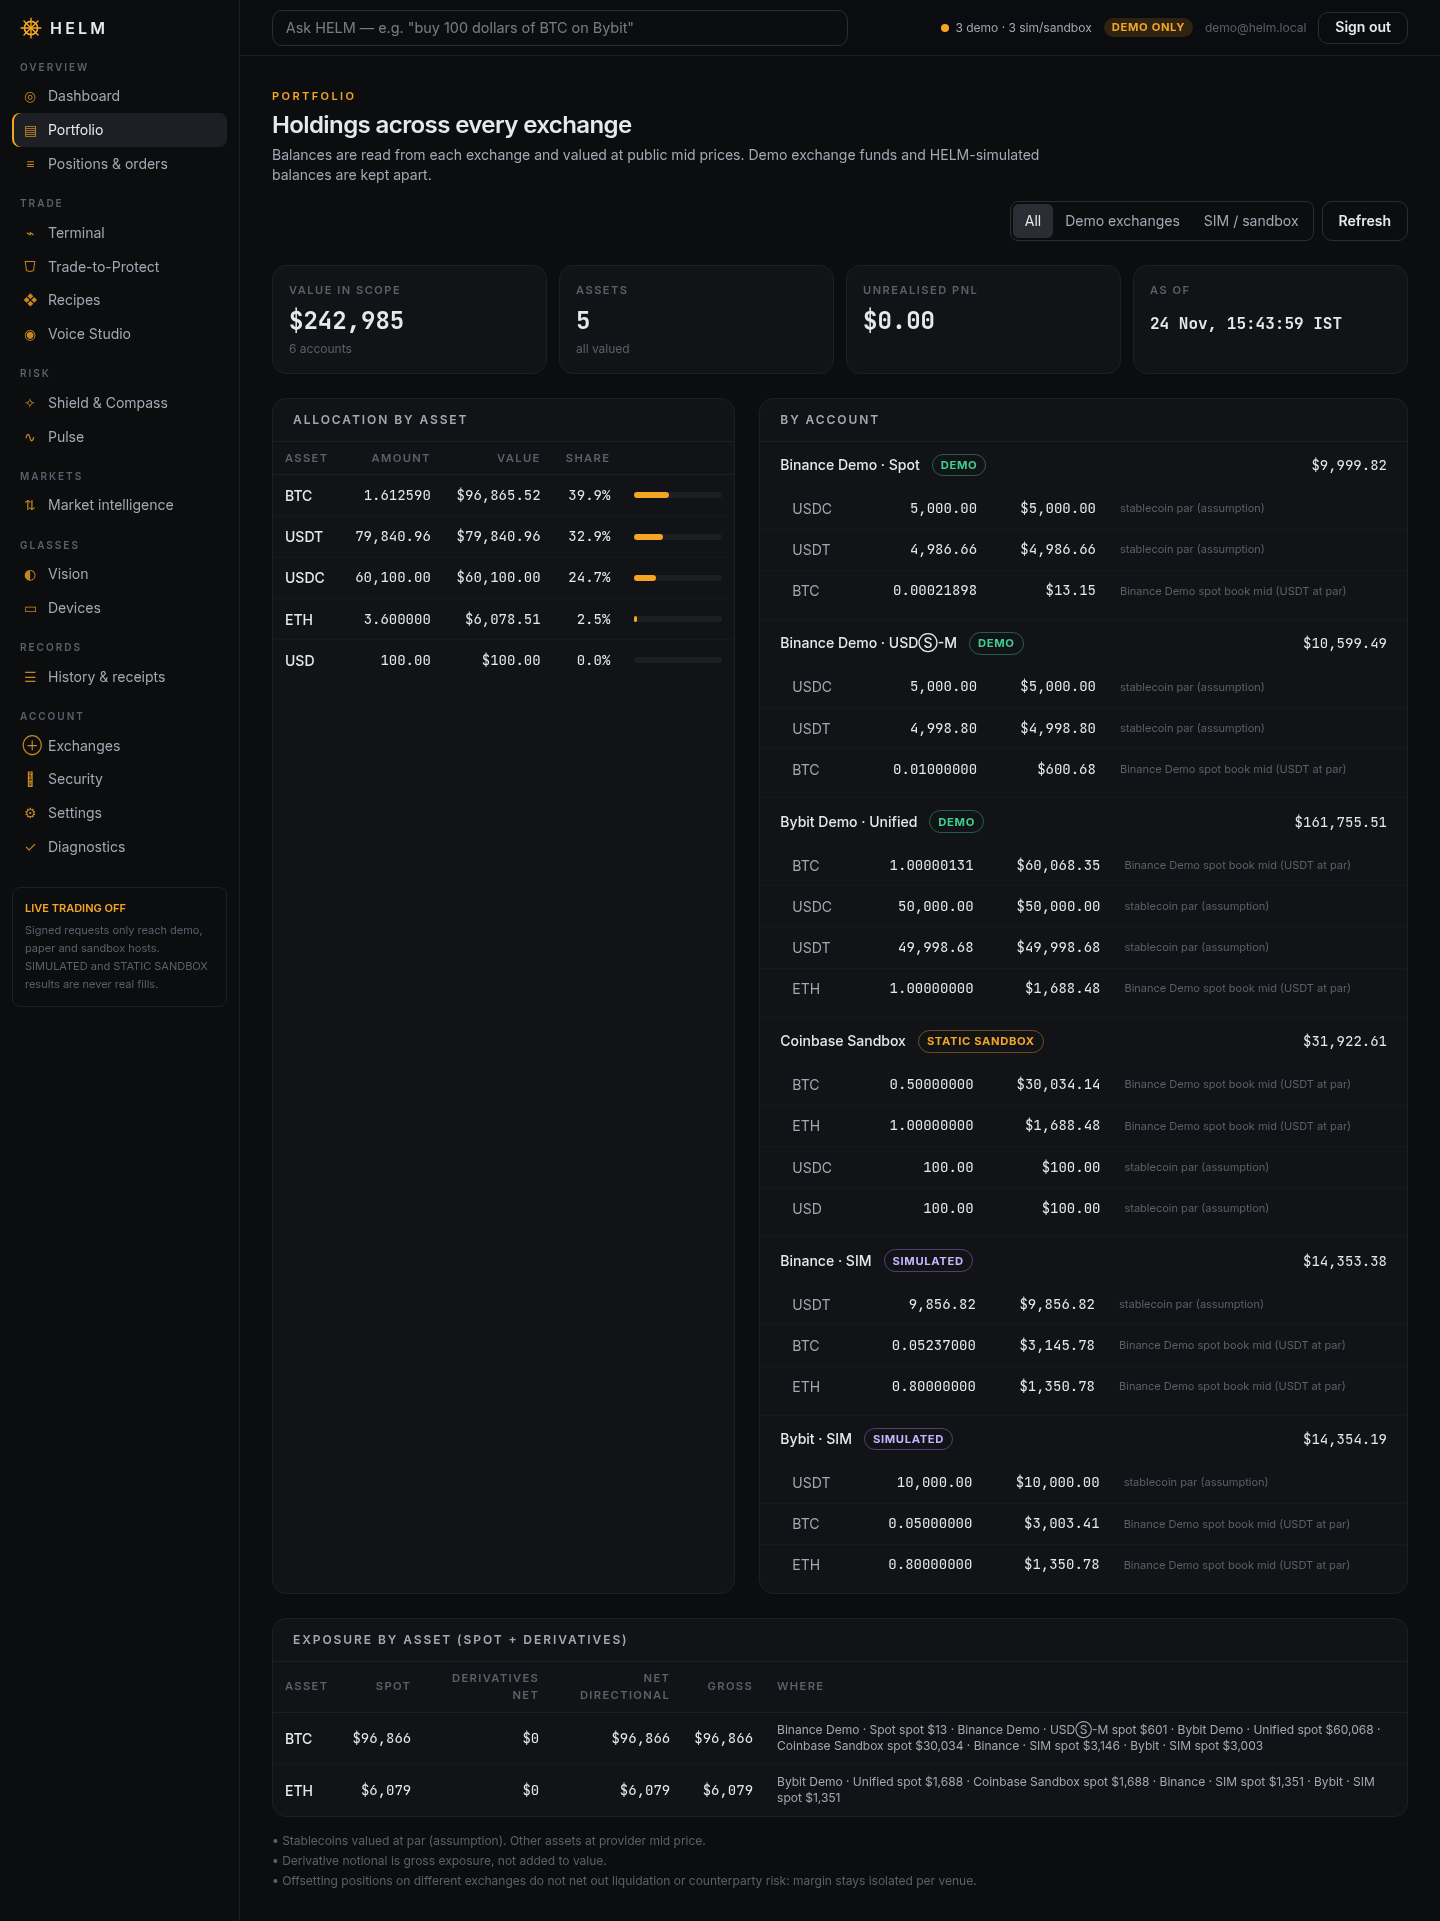
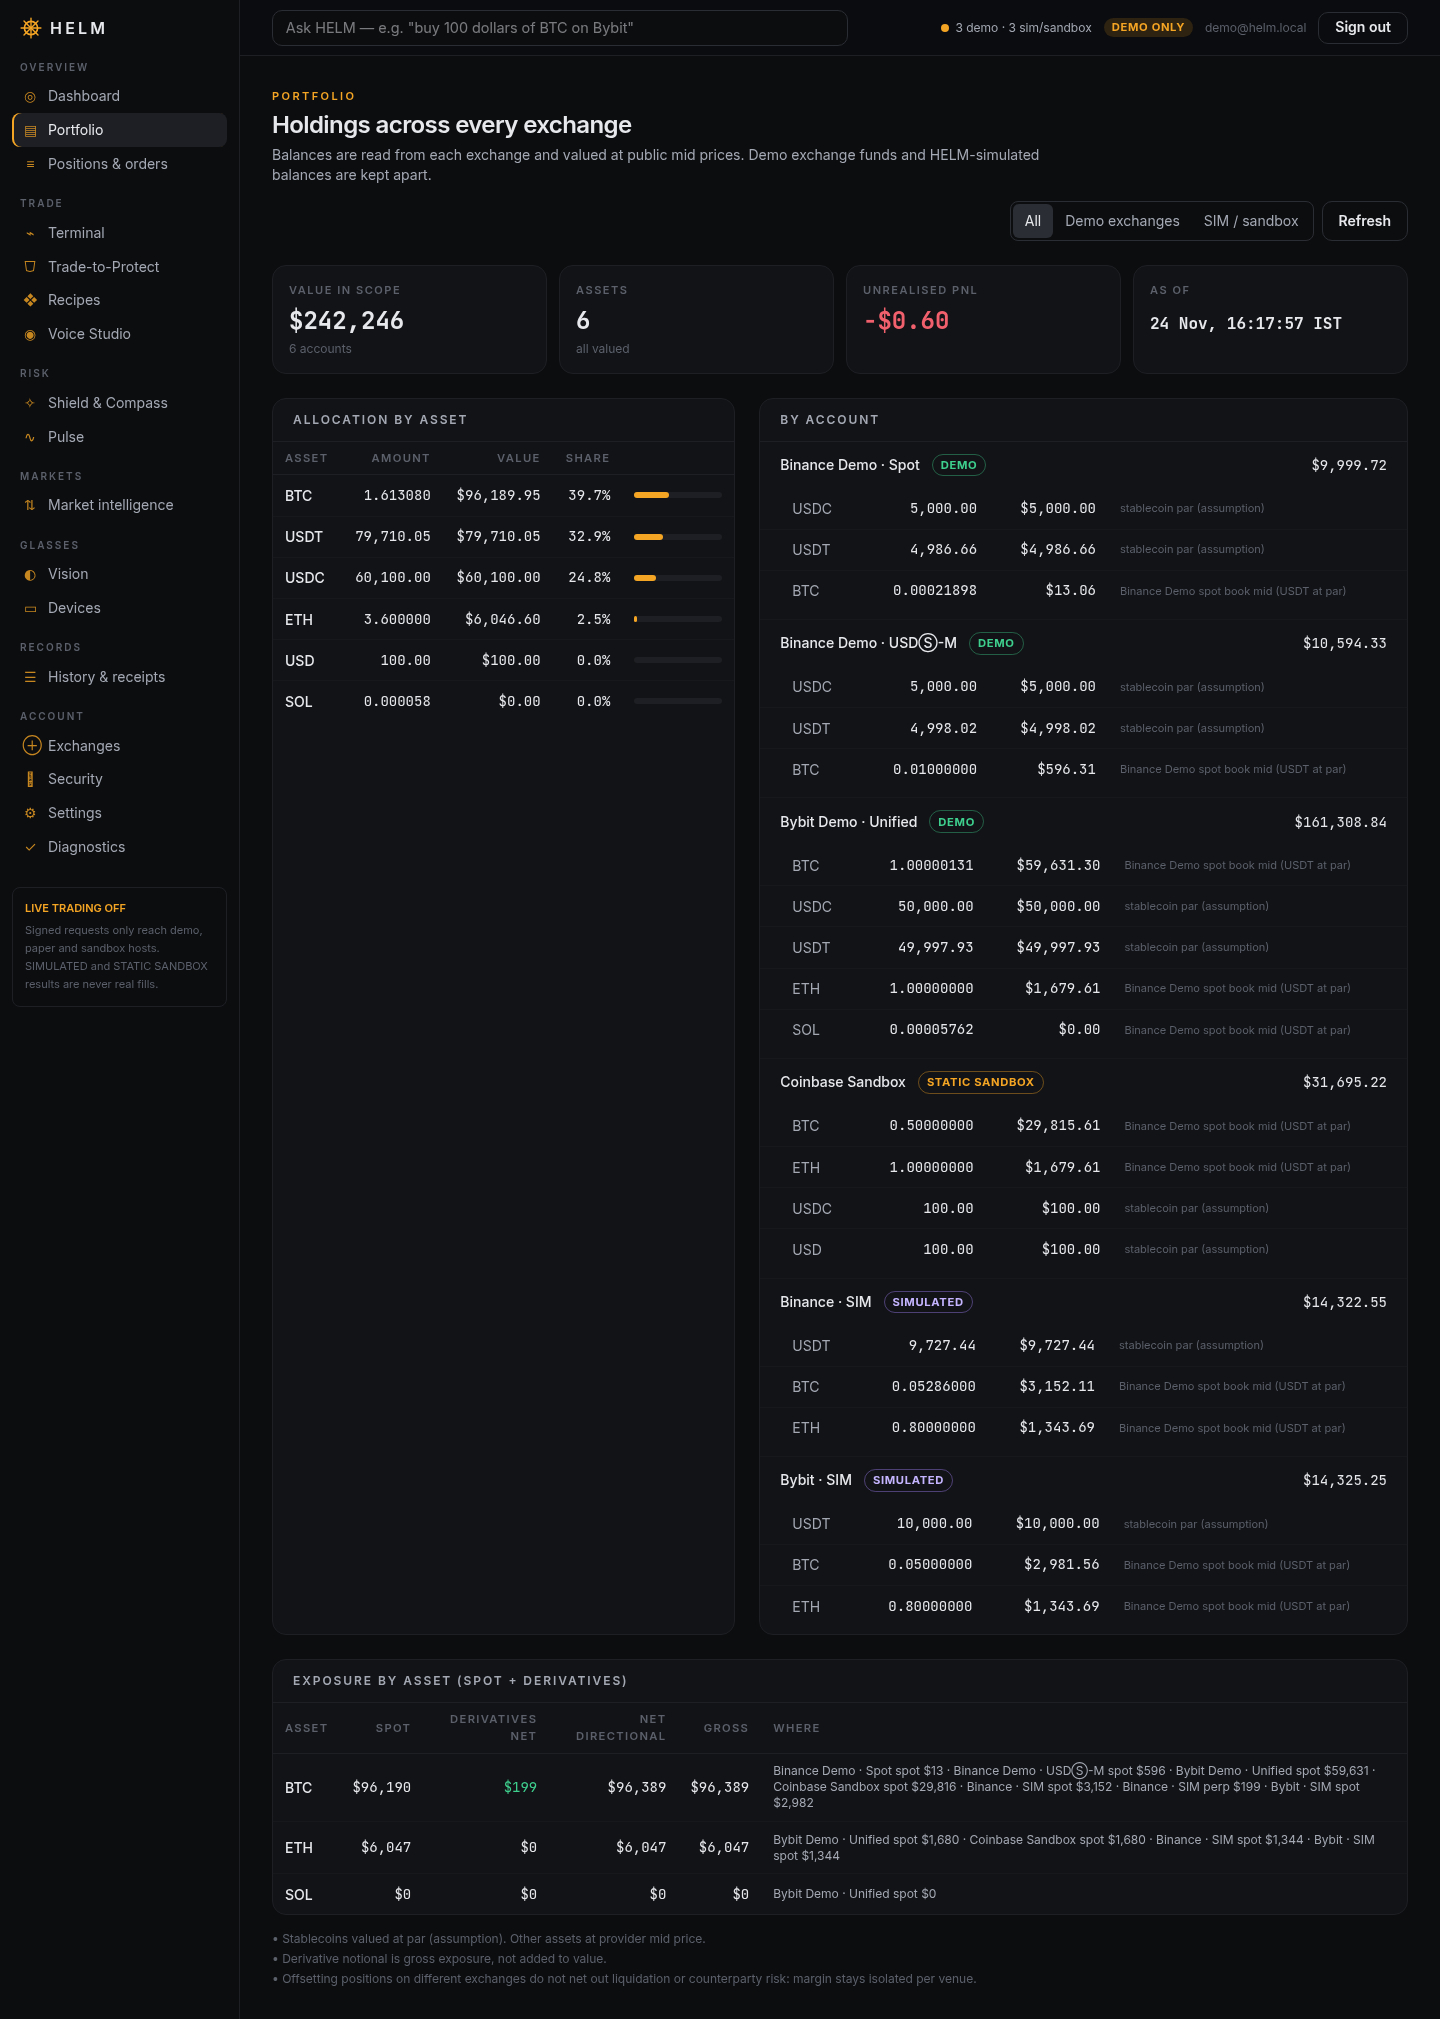
Playwright: /protect recovery flow on SIM perp (46/46 PASS), new screenshots

diff --git a/apps/companion/e2e/companion.spec.ts b/apps/companion/e2e/companion.spec.ts
@@ -111,6 +111,40 @@ test.describe('signed in as the demo user', () => {
     expect(errs).toEqual([])
   })
 
+  test('Trade-to-Protect recovery on a SIMULATED perp: unprotected → Preview stop → confirm → PROTECTED → reduce-only close', async ({ page }) => {
+    const errs = watchErrors(page)
+    const t = await demoToken()
+    const h = { authorization: `Bearer ${t}`, 'content-type': 'application/json' }
+    const post = async (url: string, body: unknown) => (await fetch(`${API}${url}`, { method: 'POST', headers: h, body: JSON.stringify(body) })).json()
+    const accts = (await (await fetch(`${API}/v1/accounts`, { headers: h })).json()).accounts as Array<{ id: string; alias: string; environment: string; products: string[] }>
+    const sim = accts.find(a => a.environment === 'simulated' && a.products.includes('perp'))!
+    const p = await post('/v1/trade/preview', { accountId: sim.id, asset: 'BTC', product: 'perp', side: 'BUY', notional: '200', leverage: '2' })
+    const r = await post('/v1/trade/confirm', { proposalId: p.proposalId, confirmToken: p.confirmToken, idempotencyKey: `e2e-recov-${Date.now()}`, via: 'companion' })
+    expect(r.receipt.status).toBe('FILLED')
+    await page.goto('/protect')
+    await settle(page)
+    const row = page.getByTestId('unprotected').locator('li', { hasText: sim.alias })
+    await expect(row).toContainText('UNPROTECTED')
+    await row.getByTestId('recovery-dist').fill('4')
+    await row.getByTestId('recovery-preview').click()
+    const panel = page.getByTestId('recovery')
+    await expect(panel).toContainText(/Protect BTC/)
+    await expect(panel).toContainText('STOP_MARKET · reduce-only')
+    await expect(page.getByTestId('confirm')).toHaveText('Confirm reduce-only stop')
+    await expect(page.getByTestId('confirm')).toBeDisabled()
+    await shot(page, '29-protect-recovery-preview')
+    await page.getByTestId('ack').check()
+    await page.getByTestId('confirm').click()
+    await expect(page.getByTestId('recovery-receipt')).toContainText('PROTECTED')
+    await shot(page, '30-protect-recovery-receipt')
+    // flatten: reduce-only full close (cancels the recovery stop)
+    const c = await post('/v1/trade/preview', { accountId: sim.id, asset: 'BTC', product: 'perp', side: 'SELL', fraction: '1', reduceOnly: true })
+    expect(c.preview.willCancel.length).toBe(1)
+    const cr = await post('/v1/trade/confirm', { proposalId: c.proposalId, confirmToken: c.confirmToken, idempotencyKey: `e2e-recov-close-${Date.now()}`, via: 'companion' })
+    expect(cr.receipt.orphanCleanup[0].result).toBe('CANCELED')
+    expect(errs).toEqual([])
+  })
+
   test('voice sample (real WAV) → local STT → intent, no order placed', async ({ page }) => {
     const errs = watchErrors(page)
     await page.goto('/voice')
